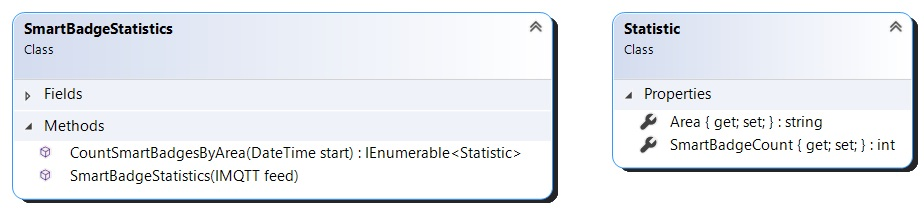
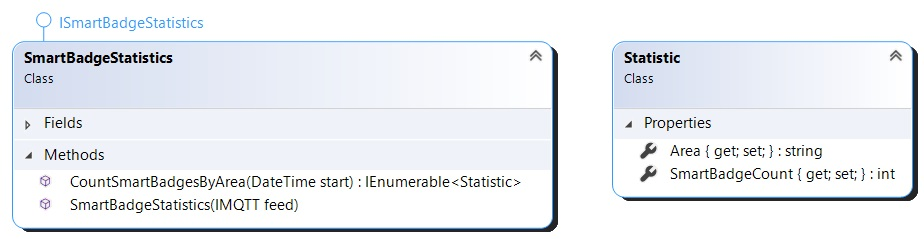
added interface. code re-organized. cleanup.

diff --git a/SmartBadge/SmartBadgeTests/SmartBadgeStatistics.cs b/SmartBadge/SmartBadgeTests/SmartBadgeStatistics.cs
@@ -4,54 +4,33 @@ using System.Linq;
 
 namespace SmartBadgeTests
 {
-    public class Packet
+    public interface ISmartBadgeStatistics
     {
-        public string GatewayMacAddress { get; set; }
-        public DateTime CreatedOn { get; set; }
-        public IEnumerable<Detail> Details { get; set; }
+        IEnumerable<Statistic> CountSmartBadgesByArea(DateTime start);
     }
 
-    public class Detail
-    {
-        public string BeaconMacAddress { get; set; }
-        public int StrengthOfSignal { get; set; }
-    }
-
-    public class Flattened
-    {
-        public Packet Packet { get; set; }
-        public Detail Detail { get; set; }
-    }
-
-    public class Filtered
-    {
-        public Flattened Flattened { get; set; }
-        public string BeaconMacAddress { get; set; }
-    }
-
-    public class Statistic
-    {
-        public string Area { get; set; }
-        public int SmartBadgeCount { get; set; }
-    }
-
-
-    public interface IMQTT
-    {
-        public IEnumerable<Packet> GetPackets(DateTime start, DateTime end);
-    }
-
-
-    public class SmartBadgeStatistics
+    /// <summary>
+    /// Class to compute Smart Badge statistics
+    /// </summary>
+    public class SmartBadgeStatistics : ISmartBadgeStatistics
     {
         IMQTT _feed;
 
+        /// <summary>
+        /// Constructor
+        /// </summary>
+        /// <param name="feed">The IMQTT feed</param>
         public SmartBadgeStatistics(IMQTT feed)
         {
             _feed = feed;
         }
 
-        public IEnumerable<Statistic> CountSmartBadgesByArea (DateTime start)
+        /// <summary>
+        /// Count smart badges by area
+        /// </summary>
+        /// <param name="start">The start time</param>
+        /// <returns><see cref="IEnumerable{Statistic}"/></returns>
+        public IEnumerable<Statistic> CountSmartBadgesByArea(DateTime start)
         {
             var end = start.AddSeconds(2);
 
@@ -59,9 +38,15 @@ namespace SmartBadgeTests
 
             var flattened = packetsInInterval.SelectMany(x => x.Details, (packet, detail) => new Flattened { Packet = packet, Detail = detail });
 
-            var maxStrength = flattened.GroupBy(x => x.Detail.BeaconMacAddress).Select(x => new Filtered { BeaconMacAddress = x.Key, Flattened = x.Aggregate((y1, y2) => (y1.Detail.BeaconMacAddress == y2.Detail.BeaconMacAddress) && (y1.Detail.StrengthOfSignal > y2.Detail.StrengthOfSignal) ? y1 : y2) });
+            var filteredByMaxStrength = flattened.GroupBy(x => x.Detail.BeaconMacAddress)
+                                                 .Select(x => new Filtered
+                                                 {
+                                                     BeaconMacAddress = x.Key,
+                                                     Flattened = x.Aggregate((y1, y2) => (y1.Detail.BeaconMacAddress == y2.Detail.BeaconMacAddress) && (y1.Detail.StrengthOfSignal > y2.Detail.StrengthOfSignal) ? y1 : y2)
+                                                 });
 
-            var countInArea = maxStrength.GroupBy(x => x.Flattened.Packet.GatewayMacAddress).Select(x => new Statistic { Area = x.Key, SmartBadgeCount = x.Count() });
+            var countInArea = filteredByMaxStrength.GroupBy(x => x.Flattened.Packet.GatewayMacAddress)
+                                                   .Select(x => new Statistic { Area = x.Key, SmartBadgeCount = x.Count() });
 
             return countInArea;
         }

diff --git a/SmartBadge/SmartBadgeTests/Models.cs b/SmartBadge/SmartBadgeTests/Models.cs
@@ -1,0 +1,36 @@
+using System;
+using System.Collections.Generic;
+
+namespace SmartBadgeTests
+{
+    public class Packet
+    {
+        public string GatewayMacAddress { get; set; }
+        public DateTime CreatedOn { get; set; }
+        public IEnumerable<Detail> Details { get; set; }
+    }
+
+    public class Detail
+    {
+        public string BeaconMacAddress { get; set; }
+        public int StrengthOfSignal { get; set; }
+    }
+
+    public class Statistic
+    {
+        public string Area { get; set; }
+        public int SmartBadgeCount { get; set; }
+    }
+
+    public class Flattened
+    {
+        public Packet Packet { get; set; }
+        public Detail Detail { get; set; }
+    }
+
+    public class Filtered
+    {
+        public Flattened Flattened { get; set; }
+        public string BeaconMacAddress { get; set; }
+    }
+}

diff --git a/SmartBadge/SmartBadgeTests/IMQTT.cs b/SmartBadge/SmartBadgeTests/IMQTT.cs
@@ -1,0 +1,10 @@
+using System;
+using System.Collections.Generic;
+
+namespace SmartBadgeTests
+{
+    public interface IMQTT
+    {
+        public IEnumerable<Packet> GetPackets(DateTime start, DateTime end);
+    }
+}
